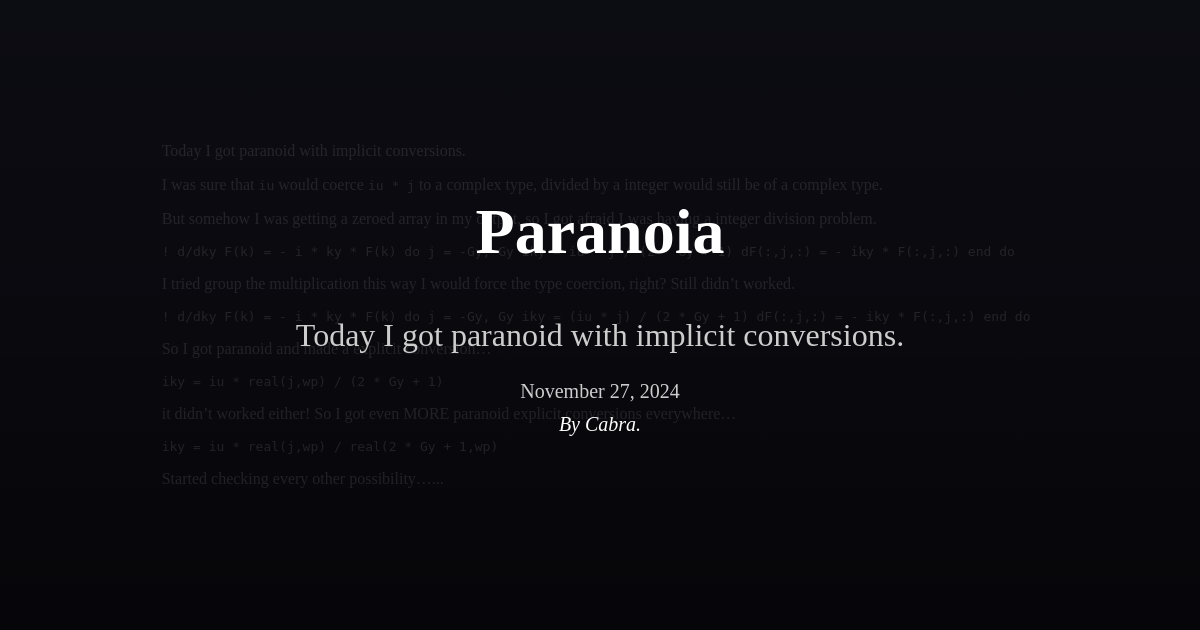
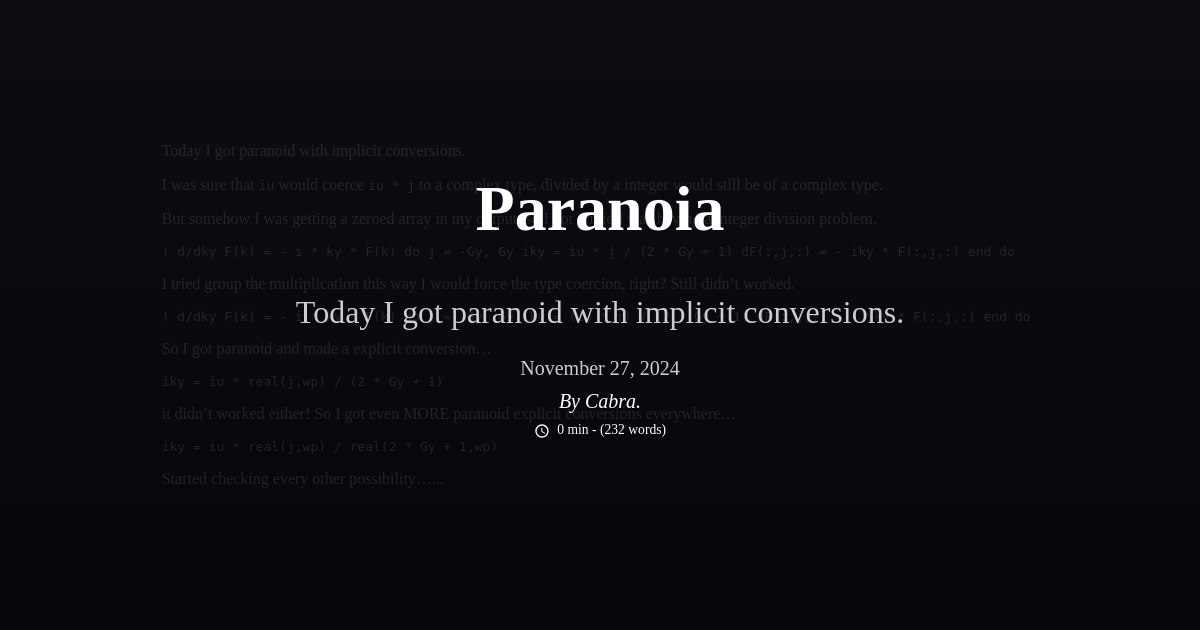
coloquei um estimador de tempo de leitura

Changed region(s): [[0.2467, 0.4825, 0.7708, 0.6937], [0.4008, 0.3016, 0.6167, 0.4222]]

diff --git a/_includes/reading-time.html b/_includes/reading-time.html
@@ -1,0 +1,12 @@
+{% if page.content %}
+  {% assign words = page.content | number_of_words %}
+  {% assign read_time = words | divided_by: 250 %}
+  
+  <div class="reading-time-indicator">
+    <svg viewBox="0 0 24 24" width="16" height="16" style="vertical-align: middle; margin-right: 4px;">
+      <path fill="currentColor" d="M12 2C6.5 2 2 6.5 2 12s4.5 10 10 10 10-4.5 10-10S17.5 2 12 2zm0 18c-4.41 0-8-3.59-8-8s3.59-8 8-8 8 3.59 8 8-3.59 8-8 8z"></path>
+      <path fill="currentColor" d="M12.5 7H11v6l5.25 3.15.75-1.23-4.5-2.67z"></path>
+    </svg>
+    Tempo de leitura: {{ read_time }} min
+  </div>
+{% endif %}

diff --git a/_layouts/preview.html b/_layouts/preview.html
@@ -97,6 +97,14 @@
       z-index: 0;
       opacity: 0.1;
     }
+
+    .reading-time-indicator {
+      display: inline-block;
+    padding: 4px 8px;
+      border-radius: 4px;
+      font-size: 0.85em;
+    margin: 5px 0 15px;
+    }
   </style>
 </head>
 
@@ -115,6 +123,7 @@
     <p   class="excerpt">{{ page.description | default: page.excerpt | strip_html | truncatewords: 40 }}</p>
     <div class="date">{{ page.date | date: "%B %d, %Y" }}</div>
     <div class="author">By {{ page.author | default: site.author }}.</div>
+    {% include reading-time.html %}
   </main>
 
   <div class="hidden-content">

diff --git a/_layouts/post.html b/_layouts/post.html
@@ -1,0 +1,16 @@
+---
+layout: default
+---
+
+{%-include back_link.html-%}
+
+<article>
+  <p class="post-meta">
+    <time datetime="{{ page.date }}">{{ page.date | date: site.theme_config.date_format }}</time>
+    {% include reading-time.html %}
+  </p>
+  
+  <h1>{{ page.title }}</h1>
+
+  {{ content }}
+</article>

diff --git a/_posts/2025-08-24-sera-que-é-só-burrice-mesmo-?.md b/_posts/2025-08-24-sera-que-é-só-burrice-mesmo-?.md
@@ -4,7 +4,6 @@ category: politica
 lang: pt-br
 description: Como a esquerda está repetindo o erro que ajudou Hitler chegar ao poder e como Olavo explorou essa fraqueza estratégica para eleger Bolsonaro.
 ---
-
 Não deve ser nenhuma novidade para vocês que me acompanham nas redes que nutro um recente interesse por política em geral. Eu nunca considerei que entendia muito bem sobre o assunto, mas sempre me considerei uma espécie de centrista à esquerda, justamente por reconhecer as contribuições dos governos petistas na minha formação, sem as quais eu provavelmente nunca teria me formado na USP (literalmente, minha família jamais teria tido condições financeiras para tal). 
 
 Sempre tentei entender a política através de uma análise de certa forma racional, herança da formação acadêmica em áreas exatas, e sempre tentei evitar defender com unhas e dentes o que eu considero não **entender** direito, justamente por princípio de *parcimônia*. No entanto, sempre entendi que era importante entender em algum momento da minha vida (uma vez que ela estivesse melhor resolvida).
